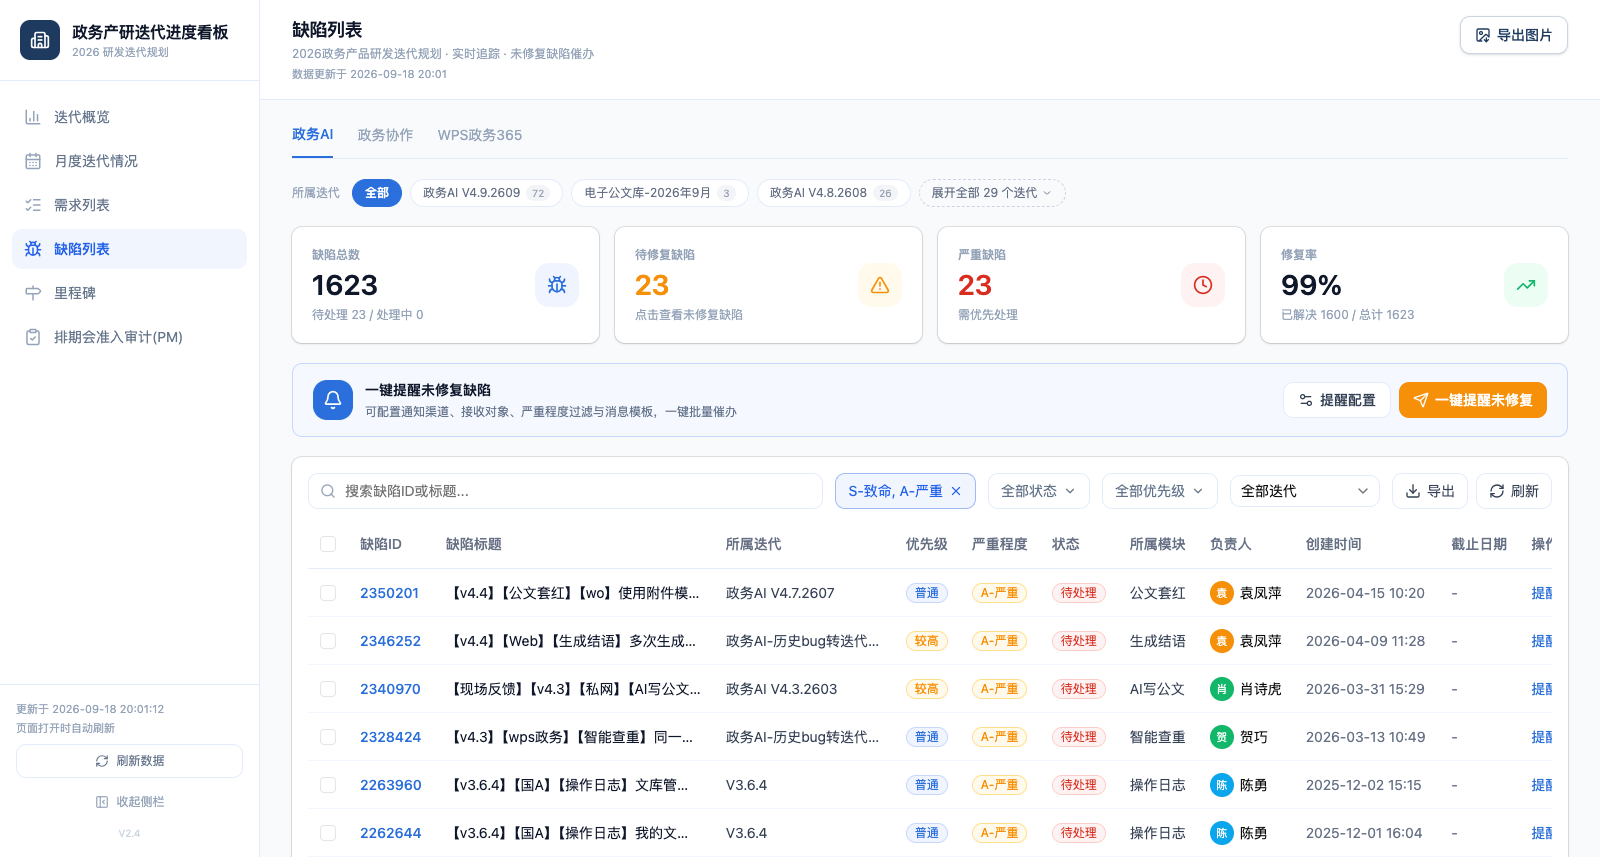
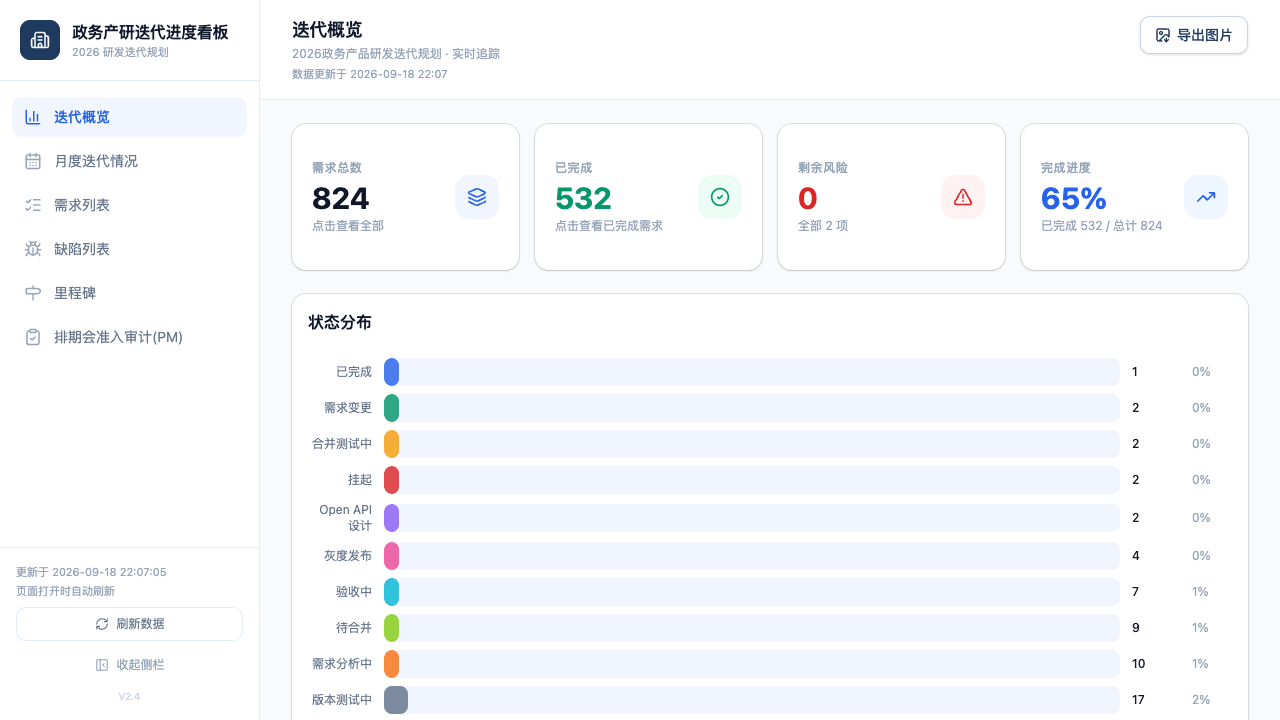
好

diff --git a/server/routes/api/oauth/callback.ts b/server/routes/api/oauth/callback.ts
@@ -36,16 +36,93 @@ function signSessionJwt(accessToken: string, expiresAt: number, secret: string):
  * 平台不提供已部署服务端的日志查询（wpsgo 无 logs 命令），而 OAuth 授权页只有用户
  * 浏览器能触发、Agent 无登录态，所以换 token 的响应在服务端“看得见但取不出”。
  * 这里用刚换到的 access_token 把响应的结构落进多维表，再由 kdocs-comate-cli
- * 以用户身份读回，用于确认平台是否下发 refresh_token。
+ * 以用户身份读回，用于确认平台是否下发 refresh_token、有效期多久、刷新时是否轮换。
  * 只记录字段名、长度与前缀，不落 token 明文。
  */
 const DIAG_SHEET_ID = 13;
 
+/**
+ * 用刚拿到的 refresh_token 立刻换一次 access_token，判断平台是否轮换 refresh_token。
+ * 这决定「服务端长期无人值守」是否可行：若每次刷新都换新 token，服务端必须持久化
+ * 新值，而我们没有可用的服务端存储；若不轮换，一个 token 存一年即可。
+ * 返回值只含结论，响应体可能带明文 token，因此绝不落库。
+ */
+async function refreshOnce(
+  appId: string,
+  appSecret: string,
+  refreshToken: string,
+): Promise<{ ok: boolean; brief: string; next: string }> {
+  try {
+    const body = new URLSearchParams({
+      grant_type: "refresh_token",
+      client_id: appId,
+      client_secret: appSecret,
+      refresh_token: refreshToken,
+    });
+    const res = await fetch("http://openapi.wps.cn/oauth2/token", {
+      method: "POST",
+      headers: { "Content-Type": "application/x-www-form-urlencoded" },
+      body: body.toString(),
+    });
+    const text = await res.text();
+    if (!res.ok) {
+      let brief = text.slice(0, 160);
+      try {
+        const j = JSON.parse(text) as { code?: unknown; msg?: unknown; message?: unknown };
+        brief = `code=${String(j.code ?? "")} msg=${String(j.msg ?? j.message ?? "")}`;
+      } catch {
+        // 非 JSON 响应：保留截断文本
+      }
+      return { ok: false, brief: `HTTP ${res.status} ${brief}`, next: "" };
+    }
+    const j = JSON.parse(text) as Record<string, unknown>;
+    return {
+      ok: true,
+      brief: `成功，字段=${Object.keys(j).sort().join(",")}`,
+      next: typeof j.refresh_token === "string" ? j.refresh_token : "",
+    };
+  } catch (err) {
+    return { ok: false, brief: `异常 ${err instanceof Error ? err.message : String(err)}`, next: "" };
+  }
+}
+
+async function probeRefreshRotation(
+  appId: string,
+  appSecret: string,
+  refreshToken: string,
+): Promise<Record<string, string>> {
+  if (!refreshToken) {
+    return {
+      刷新测试结果: "无 refresh_token，跳过",
+      刷新后返回refresh_token: "",
+      刷新后token是否变化: "",
+      旧token复用结果: "",
+    };
+  }
+  const first = await refreshOnce(appId, appSecret, refreshToken);
+  if (!first.ok) {
+    return { 刷新测试结果: `失败 ${first.brief}`, 刷新后返回refresh_token: "", 刷新后token是否变化: "", 旧token复用结果: "" };
+  }
+  // 关键分支：轮换后旧 token 是否仍然可用。
+  // 若仍可用，服务端只存一份种子 token 就能长期无人值守；若已失效，
+  // 则必须有服务端可写的持久化存储来承接每次轮换出的新 token。
+  const reuse = await refreshOnce(appId, appSecret, refreshToken);
+  return {
+    刷新测试结果: first.brief,
+    刷新后返回refresh_token: first.next ? "是" : "否",
+    刷新后token是否变化: first.next ? (first.next === refreshToken ? "相同（不轮换）" : "不同（轮换）") : "未返回",
+    旧token复用结果: reuse.ok ? "旧token仍可用" : `旧token已失效：${reuse.brief}`,
+  };
+}
+
 async function recordTokenResponseDiagnostics(
   accessToken: string,
   data: Record<string, unknown>,
+  appId: string,
+  appSecret: string,
 ): Promise<void> {
   const refreshToken = typeof data.refresh_token === "string" ? data.refresh_token : "";
+  const rotation = await probeRefreshRotation(appId, appSecret, refreshToken);
   const fields = {
     诊断时间: new Date().toLocaleString("sv-SE", { timeZone: "Asia/Shanghai" }).slice(0, 19),
     响应字段列表: Object.keys(data).sort().join(", "),
@@ -54,7 +131,9 @@ async function recordTokenResponseDiagnostics(
     refresh_token前缀: refreshToken ? `${refreshToken.slice(0, 8)}...` : "",
     scope: String(data.scope ?? ""),
     expires_in: String(data.expires_in ?? ""),
+    refresh_expires_in: String(data.refresh_expires_in ?? ""),
     token_type: String(data.token_type ?? ""),
+    ...rotation,
   };
   await apiPost(accessToken, `/sheets/${DIAG_SHEET_ID}/records/create`, {
     records: [{ fields_value: JSON.stringify(fields) }],
@@ -145,7 +224,7 @@ export default defineEventHandler(async (event) => {
 
     // 诊断失败不能影响授权本身
     try {
-      await recordTokenResponseDiagnostics(tokenValue, data);
+      await recordTokenResponseDiagnostics(tokenValue, data, appId, appSecret);
     } catch (err) {
       console.error("[oauth-callback] 诊断写入失败:", err instanceof Error ? err.message : String(err));
     }

diff --git a/.wpscomate/plans/oauth-refresh-token-probe_standalone.todo.md b/.wpscomate/plans/oauth-refresh-token-probe_standalone.todo.md
@@ -4,5 +4,5 @@
 2. [x] 改 oauth/callback.ts：捕获并记录 refresh_token（含完整响应字段）
 3. [x] lint + check:types
 4. [x] 本地预览验证（app-dev verify）
-5. [-] 打包并部署上线
-6. [ ] 用户重新授权后取服务端日志，确认平台是否下发 refresh_token
+5. [x] 打包并部署上线
+6. [x] 用户重新授权后取服务端日志，确认平台是否下发 refresh_token
